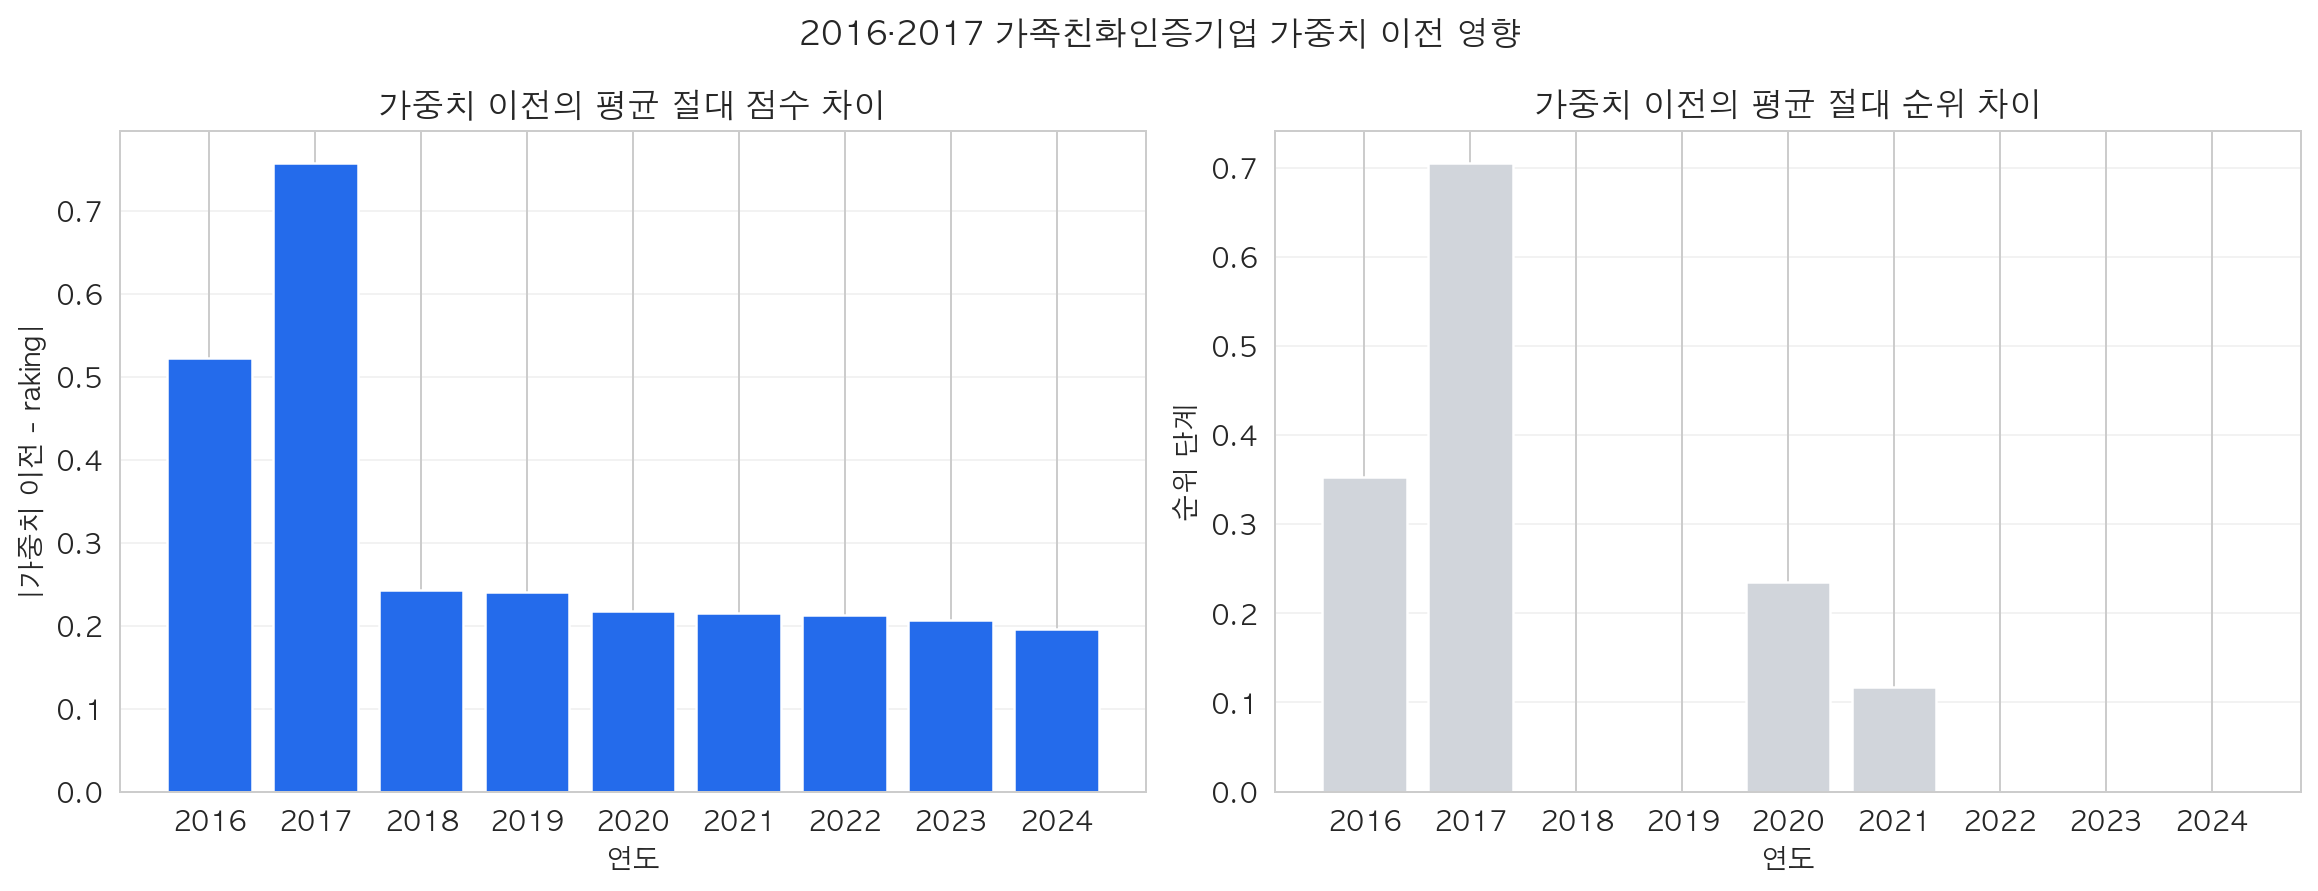
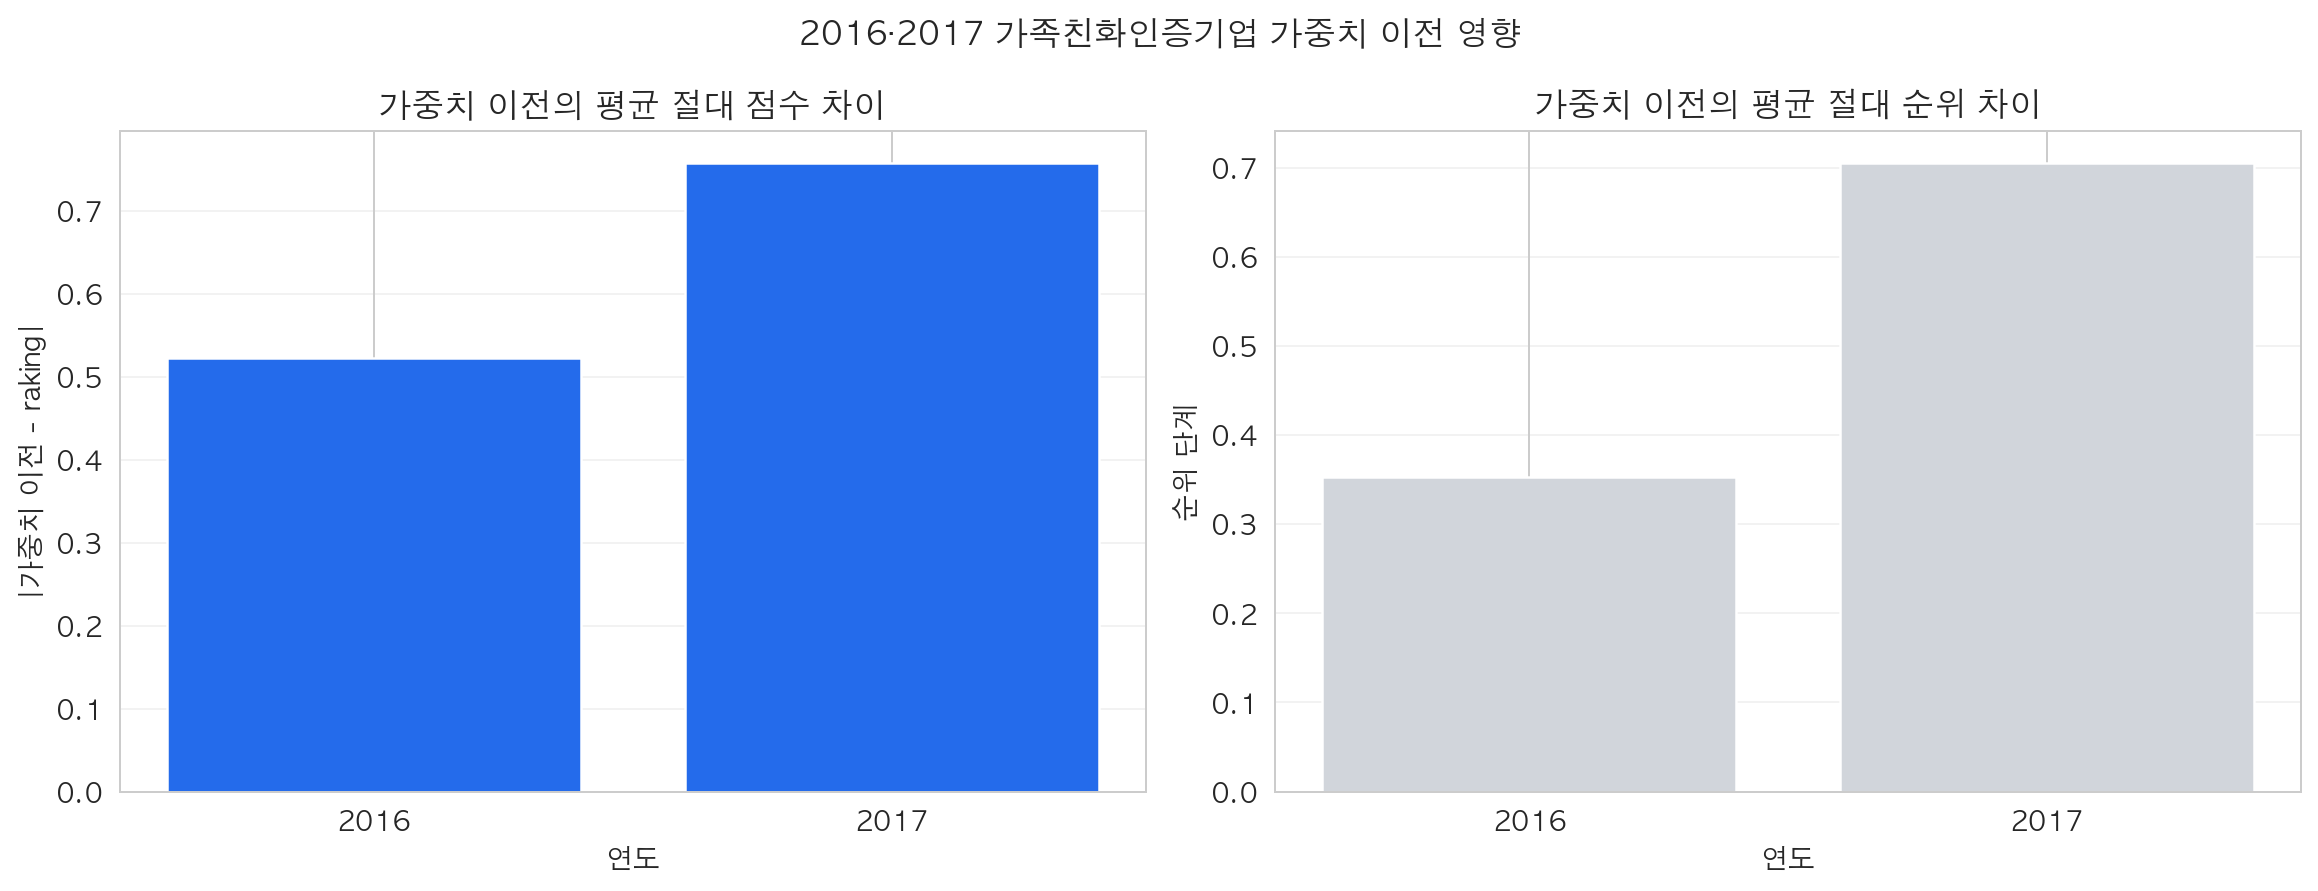
fix: AHP 지수 시각화 리뷰 반영 (#91)

diff --git a/src/visualization/structural_index.py b/src/visualization/structural_index.py
@@ -84,17 +84,26 @@ def _require_columns(frame: pd.DataFrame, required: set[str], name: str) -> None
         raise ValueError(f"{name} 필수 컬럼 누락: {missing}")
 
 
-def _validate_key_grid(frame: pd.DataFrame, *, name: str, key_columns: list[str]) -> None:
-    if frame.duplicated(key_columns).any():
+def _validate_key_grid(
+    frame: pd.DataFrame,
+    *,
+    name: str,
+    key_columns: list[str],
+    allow_duplicate_keys: bool = False,
+) -> None:
+    if not allow_duplicate_keys and frame.duplicated(key_columns).any():
         raise ValueError(f"{name}에 중복 키가 있습니다: {key_columns}")
     if "전국" in set(frame["region"].dropna()):
         raise ValueError(f"{name}에 전국 행이 포함되어 있습니다.")
     expected = len(DEFAULT_STRUCTURAL_REGIONS) * len(DEFAULT_STRUCTURAL_YEARS)
-    if len(frame) != expected:
-        raise ValueError(f"{name} 행 수가 17개 시도×2016–2024와 다릅니다: {len(frame)}")
-    if set(frame["region"]) != set(DEFAULT_STRUCTURAL_REGIONS):
+    unique_keys = frame[key_columns].drop_duplicates()
+    if len(unique_keys) != expected:
+        raise ValueError(
+            f"{name}의 고유 지역·연도 조합 수가 17개 시도×2016–2024와 다릅니다: {len(unique_keys)}"
+        )
+    if set(unique_keys["region"]) != set(DEFAULT_STRUCTURAL_REGIONS):
         raise ValueError(f"{name}의 지역 구성이 17개 시도와 다릅니다.")
-    if set(frame["year"]) != set(DEFAULT_STRUCTURAL_YEARS):
+    if set(unique_keys["year"]) != set(DEFAULT_STRUCTURAL_YEARS):
         raise ValueError(f"{name}의 연도 구성이 2016–2024와 다릅니다.")
 
 
@@ -119,6 +128,9 @@ def validate_structural_index_artifacts(artifacts: dict[str, pd.DataFrame]) -> d
     for key in ("pooled_category",):
         frame = artifacts[key]
         _require_columns(frame, CATEGORY_COLUMNS, key)
+        _validate_key_grid(
+            frame, name=key, key_columns=["region", "year"], allow_duplicate_keys=True
+        )
         _validate_finite(frame, ["category_contribution", "category_score"], key)
         if frame.duplicated(["region", "year", "category"]).any():
             raise ValueError(f"{key}에 지역·연도·대영역 중복이 있습니다.")
@@ -127,6 +139,12 @@ def validate_structural_index_artifacts(artifacts: dict[str, pd.DataFrame]) -> d
 
     frame = artifacts["pooled_subcategory"]
     _require_columns(frame, SUBCATEGORY_COLUMNS, "pooled_subcategory")
+    _validate_key_grid(
+        frame,
+        name="pooled_subcategory",
+        key_columns=["region", "year"],
+        allow_duplicate_keys=True,
+    )
     _validate_finite(frame, ["subcategory_contribution", "subcategory_score"], "pooled_subcategory")
     if frame.duplicated(["region", "year", "subcategory"]).any():
         raise ValueError("pooled_subcategory에 지역·연도·세부영역 중복이 있습니다.")
@@ -143,13 +161,26 @@ def validate_structural_index_artifacts(artifacts: dict[str, pd.DataFrame]) -> d
             "final_index_yearly",
             "rank_pooled",
             "rank_yearly",
+            "score_diff_yearly_minus_pooled",
+            "abs_score_diff",
+            "rank_diff_yearly_minus_pooled",
+            "abs_rank_diff",
         },
         "yearly_comparison",
     )
     _validate_key_grid(comparison, name="yearly_comparison", key_columns=["region", "year"])
     _validate_finite(
         comparison,
-        ["final_index_pooled", "final_index_yearly", "rank_pooled", "rank_yearly"],
+        [
+            "final_index_pooled",
+            "final_index_yearly",
+            "rank_pooled",
+            "rank_yearly",
+            "score_diff_yearly_minus_pooled",
+            "abs_score_diff",
+            "rank_diff_yearly_minus_pooled",
+            "abs_rank_diff",
+        ],
         "yearly_comparison",
     )
 
@@ -158,6 +189,12 @@ def validate_structural_index_artifacts(artifacts: dict[str, pd.DataFrame]) -> d
         indicator,
         {"region", "year", "indicator_id", "indicator_weighted_contribution"},
         "pooled_indicator",
+    )
+    _validate_key_grid(
+        indicator,
+        name="pooled_indicator",
+        key_columns=["region", "year"],
+        allow_duplicate_keys=True,
     )
     if indicator.duplicated(["region", "year", "indicator_id"]).any():
         raise ValueError("pooled_indicator에 지역·연도·지표 중복이 있습니다.")
@@ -381,8 +418,10 @@ def plot_family_friendly_impact(artifacts: dict[str, pd.DataFrame]) -> plt.Figur
     """2016·2017 가족친화인증기업 가중치 이전의 점수·순위 영향을 표시한다."""
 
     impact = artifacts["family_weight_transfer"].copy()
-    annual = impact.groupby("year", as_index=False).agg(
-        abs_score_diff=("abs_score_diff", "mean"), abs_rank_diff=("abs_rank_diff", "mean")
+    annual = (
+        impact.loc[impact["year"].isin([2016, 2017])]
+        .groupby("year", as_index=False)
+        .agg(abs_score_diff=("abs_score_diff", "mean"), abs_rank_diff=("abs_rank_diff", "mean"))
     )
     fig, axes = plt.subplots(1, 2, figsize=(13, 5))
     axes[0].bar(annual["year"].astype(str), annual["abs_score_diff"], color=PALETTE[0])
@@ -402,8 +441,8 @@ def plot_family_friendly_impact(artifacts: dict[str, pd.DataFrame]) -> plt.Figur
 def summarize_qa(artifacts: dict[str, pd.DataFrame], summary: pd.DataFrame) -> dict[str, float]:
     """QA 보고서에 사용할 핵심 비교 통계를 계산한다."""
 
-    correlations = summary.groupby("year").apply(
-        lambda frame: frame["pooled_index"].corr(frame["yearly_index"]), include_groups=False
+    correlations = summary.groupby("year")[["pooled_index", "yearly_index"]].apply(
+        lambda frame: frame["pooled_index"].corr(frame["yearly_index"])
     )
     rank_gap = (summary["pooled_rank"] - summary["yearly_rank"]).abs()
     return {

diff --git a/scripts/build_structural_index_visualizations.py b/scripts/build_structural_index_visualizations.py
@@ -3,6 +3,7 @@
 from __future__ import annotations
 
 import argparse
+import hashlib
 from pathlib import Path
 
 import matplotlib
@@ -11,6 +12,7 @@ matplotlib.use("Agg")
 import matplotlib.pyplot as plt
 
 from src.visualization.structural_index import (
+    ARTIFACT_FILES,
     OUTPUT_DIRNAME,
     build_index_summary,
     load_structural_index_artifacts,
@@ -37,6 +39,17 @@ def _save_figure(figure: plt.Figure, path: Path) -> None:
     plt.close(figure)
 
 
+def _artifact_dataset_version(repo_root: Path) -> str:
+    """입력 산출물 바이트를 해시해 재현 가능한 데이터셋 버전을 만든다."""
+
+    digest = hashlib.sha256()
+    for filename in sorted(ARTIFACT_FILES.values()):
+        path = repo_root / "data" / "processed" / "structural_index" / filename
+        digest.update(filename.encode("utf-8"))
+        digest.update(path.read_bytes())
+    return f"structural_index_artifacts_sha256:{digest.hexdigest()[:16]}"
+
+
 def build_visualization_outputs(
     *,
     repo_root: Path = REPO_ROOT,
@@ -48,6 +61,7 @@ def build_visualization_outputs(
     artifacts = load_structural_index_artifacts(repo_root)
     validation = validate_structural_index_artifacts(artifacts)
     summary = build_index_summary(artifacts)
+    dataset_version = _artifact_dataset_version(repo_root)
     output_dir.mkdir(parents=True, exist_ok=True)
 
     _save_figure(
@@ -84,6 +98,10 @@ def build_visualization_outputs(
     report_path.write_text(
         "# #91 AHP 구조환경지수 종합지수 시각화 QA\n\n"
         "## 입력·검증\n\n"
+        f"- 데이터셋 버전: `{dataset_version}` (입력 산출물 8개 파일 SHA-256 식별자)\n"
+        "- 분석 기간: 2016–2024년, 17개 시도\n"
+        "- 분할 전략: 해당 없음(예측·학습이 아닌 지수 산출물 기술통계·시각화)\n"
+        "- 평가 지표·교차검증 fold: 해당 없음(모델 평가·교차검증 없음)\n"
         "- pooled 본계열: `data/processed/structural_index/structural_index_pooled_final_index.csv`\n"
         "- yearly 민감도: `data/processed/structural_index/structural_index_yearly_final_index.csv`\n"
         "- 구성 점수: pooled 대영역·세부영역·지표 점수 CSV\n"
@@ -93,6 +111,11 @@ def build_visualization_outputs(
         f"- 지표 점수 행 수: {validation['indicator_rows']:,}행\n"
         "- 전국 행: 최종지수·구성점수·순위 계산에서 제외됨을 검증\n"
         "- 결측 최종지수·비유한값·지역·연도 중복: 없음\n\n"
+        "## 가정·제약·잠재편향\n\n"
+        "- 핵심 가정: pooled는 연도 간 비교 가능한 고정 표준화 기준이며 yearly는 민감도 분석으로 사용한다.\n"
+        "- 방법론적 제약: AHP 가중치는 모든 연도에 고정되고, 지수는 인과효과가 아닌 상대적 수준을 나타낸다.\n"
+        "- 한계: 표준화 기준과 조사주기 차이로 인해 절대적 복지 수준이나 정책 효과를 직접 해석할 수 없다.\n"
+        "- 잠재편향: 원자료의 조사 표본·자기보고 응답·공표 기준 변경 및 지역별 측정 가능성 차이가 결과에 영향을 줄 수 있다.\n\n"
         "## 해석 원칙\n\n"
         "- pooled를 본계열로, yearly를 표준화 민감도 분석으로 표시한다.\n"
         "- AHP 가중치는 모든 연도에 고정 적용되며, 지수는 인과효과가 아닌 상대적 구조환경 수준이다.\n"

diff --git a/tests/test_structural_index_visualizations.py b/tests/test_structural_index_visualizations.py
@@ -119,6 +119,27 @@ def test_structural_index_validation_rejects_nationwide_final_row():
         validate_structural_index_artifacts(artifacts)
 
 
+def test_structural_index_validation_rejects_missing_category_region_year():
+    artifacts = _synthetic_artifacts()
+    artifacts["pooled_category"] = artifacts["pooled_category"].loc[
+        ~(
+            artifacts["pooled_category"]["region"].eq("제주")
+            & artifacts["pooled_category"]["year"].eq(2024)
+        )
+    ]
+
+    with pytest.raises(ValueError, match="고유 지역·연도 조합 수"):
+        validate_structural_index_artifacts(artifacts)
+
+
+def test_structural_index_validation_rejects_missing_yearly_comparison_summary_column():
+    artifacts = _synthetic_artifacts()
+    artifacts["yearly_comparison"] = artifacts["yearly_comparison"].drop(columns="abs_score_diff")
+
+    with pytest.raises(ValueError, match="yearly_comparison 필수 컬럼 누락"):
+        validate_structural_index_artifacts(artifacts)
+
+
 def test_region_component_comparison_rejects_unknown_region():
     artifacts = _synthetic_artifacts()
 

diff --git a/reports/methodology/20260806_#91_AHP_구조환경지수_종합지수_시각화_QA.md b/reports/methodology/20260806_#91_AHP_구조환경지수_종합지수_시각화_QA.md
@@ -2,6 +2,10 @@
 
 ## 입력·검증
 
+- 데이터셋 버전: `structural_index_artifacts_sha256:0fbf9b9c9f9d4dcd` (입력 산출물 8개 파일 SHA-256 식별자)
+- 분석 기간: 2016–2024년, 17개 시도
+- 분할 전략: 해당 없음(예측·학습이 아닌 지수 산출물 기술통계·시각화)
+- 평가 지표·교차검증 fold: 해당 없음(모델 평가·교차검증 없음)
 - pooled 본계열: `data/processed/structural_index/structural_index_pooled_final_index.csv`
 - yearly 민감도: `data/processed/structural_index/structural_index_yearly_final_index.csv`
 - 구성 점수: pooled 대영역·세부영역·지표 점수 CSV
@@ -11,6 +15,13 @@
 - 지표 점수 행 수: 4,284행
 - 전국 행: 최종지수·구성점수·순위 계산에서 제외됨을 검증
 - 결측 최종지수·비유한값·지역·연도 중복: 없음
+
+## 가정·제약·잠재편향
+
+- 핵심 가정: pooled는 연도 간 비교 가능한 고정 표준화 기준이며 yearly는 민감도 분석으로 사용한다.
+- 방법론적 제약: AHP 가중치는 모든 연도에 고정되고, 지수는 인과효과가 아닌 상대적 수준을 나타낸다.
+- 한계: 표준화 기준과 조사주기 차이로 인해 절대적 복지 수준이나 정책 효과를 직접 해석할 수 없다.
+- 잠재편향: 원자료의 조사 표본·자기보고 응답·공표 기준 변경 및 지역별 측정 가능성 차이가 결과에 영향을 줄 수 있다.
 
 ## 해석 원칙
 
